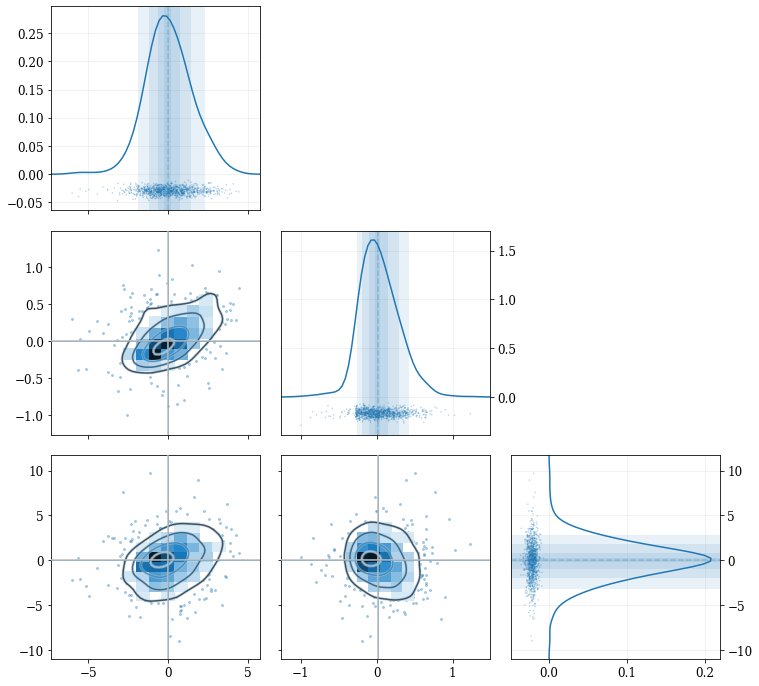
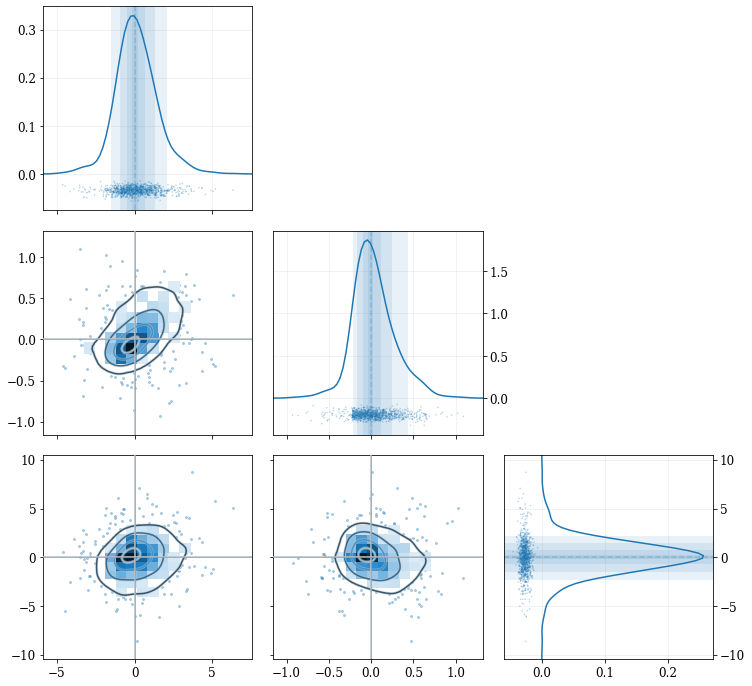
BUG: need to execute notebooks before conversion

diff --git a/gen_plot_api.py b/gen_plot_api.py
@@ -26,7 +26,7 @@ GITHUB_RAW_ADDR = "https://raw.githubusercontent.com/lzkelley/kalepy/{branch:}/d
 
 ALLOWED_BRANCHES = ['dev', 'master', 'test']
 
-EXECUTE = False
+EXECUTE = True
 
 # repo.git.describe
 

diff --git a/gen_readme.py b/gen_readme.py
@@ -27,7 +27,7 @@ GITHUB_RAW_ADDR = "https://raw.githubusercontent.com/lzkelley/kalepy/{branch:}/d
 
 ALLOWED_BRANCHES = ['dev', 'master', 'test']
 
-EXECUTE = False
+EXECUTE = True
 
 # repo.git.describe
 

diff --git a/docs/source/kde_api.rst b/docs/source/kde_api.rst
@@ -50,7 +50,7 @@ Plotting Smooth Distributions
 
 
 
-.. image:: https://raw.githubusercontent.com/lzkelley/kalepy/test/docs/media/demo_kde_files/demo_kde_8_0.png
+.. image:: https://raw.githubusercontent.com/lzkelley/kalepy/dev/docs/media/demo_kde_files/demo_kde_8_0.png
 
 
 resampling: constructing statistically similar values
@@ -76,7 +76,7 @@ Draw a new sample of data-points from the KDE PDF
 
 
 
-.. image:: https://raw.githubusercontent.com/lzkelley/kalepy/test/docs/media/demo_kde_files/demo_kde_11_0.png
+.. image:: https://raw.githubusercontent.com/lzkelley/kalepy/dev/docs/media/demo_kde_files/demo_kde_11_0.png
 
 
 Multivariate Distributions
@@ -97,7 +97,7 @@ Multivariate Distributions
 
 
 
-.. image:: https://raw.githubusercontent.com/lzkelley/kalepy/test/docs/media/demo_kde_files/demo_kde_13_0.png
+.. image:: https://raw.githubusercontent.com/lzkelley/kalepy/dev/docs/media/demo_kde_files/demo_kde_13_0.png
 
 
 .. code:: ipython3
@@ -126,7 +126,7 @@ Multivariate Distributions
 
 
 
-.. image:: https://raw.githubusercontent.com/lzkelley/kalepy/test/docs/media/demo_kde_files/demo_kde_14_0.png
+.. image:: https://raw.githubusercontent.com/lzkelley/kalepy/dev/docs/media/demo_kde_files/demo_kde_14_0.png
 
 
 Fancy Usage
@@ -165,7 +165,7 @@ like in a uniform distribution between two bounds? Here, the KDE chooses
 
 
 
-.. image:: https://raw.githubusercontent.com/lzkelley/kalepy/test/docs/media/demo_kde_files/demo_kde_18_0.png
+.. image:: https://raw.githubusercontent.com/lzkelley/kalepy/dev/docs/media/demo_kde_files/demo_kde_18_0.png
 
 
 Explicit reflection locations can also be provided (in any number of
@@ -198,7 +198,7 @@ dimensions).
 
 
 
-.. image:: https://raw.githubusercontent.com/lzkelley/kalepy/test/docs/media/demo_kde_files/demo_kde_20_0.png
+.. image:: https://raw.githubusercontent.com/lzkelley/kalepy/dev/docs/media/demo_kde_files/demo_kde_20_0.png
 
 
 Multivariate Reflection
@@ -221,7 +221,7 @@ Multivariate Reflection
 
 
 
-.. image:: https://raw.githubusercontent.com/lzkelley/kalepy/test/docs/media/demo_kde_files/demo_kde_22_0.png
+.. image:: https://raw.githubusercontent.com/lzkelley/kalepy/dev/docs/media/demo_kde_files/demo_kde_22_0.png
 
 
 Specifying Bandwidths and Kernel Functions
@@ -270,7 +270,7 @@ Specifying Bandwidths and Kernel Functions
 
 
 
-.. image:: https://raw.githubusercontent.com/lzkelley/kalepy/test/docs/media/demo_kde_files/demo_kde_24_0.png
+.. image:: https://raw.githubusercontent.com/lzkelley/kalepy/dev/docs/media/demo_kde_files/demo_kde_24_0.png
 
 
 Resampling
@@ -317,7 +317,7 @@ Using different data ``weights``
 
 
 
-.. image:: https://raw.githubusercontent.com/lzkelley/kalepy/test/docs/media/demo_kde_files/demo_kde_27_0.png
+.. image:: https://raw.githubusercontent.com/lzkelley/kalepy/dev/docs/media/demo_kde_files/demo_kde_27_0.png
 
 
 Resampling while ‘keeping’ certain parameters/dimensions
@@ -340,7 +340,7 @@ Resampling while ‘keeping’ certain parameters/dimensions
 
 
 
-.. image:: https://raw.githubusercontent.com/lzkelley/kalepy/test/docs/media/demo_kde_files/demo_kde_29_0.png
+.. image:: https://raw.githubusercontent.com/lzkelley/kalepy/dev/docs/media/demo_kde_files/demo_kde_29_0.png
 
 
 A standard KDE resampling will smooth out the discrete variables,
@@ -367,5 +367,5 @@ of resampling with ‘smoothing’ based on the KDE.
 
 
 
-.. image:: https://raw.githubusercontent.com/lzkelley/kalepy/test/docs/media/demo_kde_files/demo_kde_31_0.png
+.. image:: https://raw.githubusercontent.com/lzkelley/kalepy/dev/docs/media/demo_kde_files/demo_kde_31_0.png
 

diff --git a/README.md b/README.md
@@ -101,7 +101,7 @@ nbshow()
 ```
 
 
-![png](https://raw.githubusercontent.com/lzkelley/kalepy/test/docs/media/demo_files/demo_8_0.png)
+![png](https://raw.githubusercontent.com/lzkelley/kalepy/dev/docs/media/demo_files/demo_8_0.png)
 
 
 ### resampling: constructing statistically similar values
@@ -126,7 +126,7 @@ nbshow()
 ```
 
 
-![png](https://raw.githubusercontent.com/lzkelley/kalepy/test/docs/media/demo_files/demo_11_0.png)
+![png](https://raw.githubusercontent.com/lzkelley/kalepy/dev/docs/media/demo_files/demo_11_0.png)
 
 
 ### Multivariate Distributions
@@ -146,7 +146,7 @@ nbshow()
 ```
 
 
-![png](https://raw.githubusercontent.com/lzkelley/kalepy/test/docs/media/demo_files/demo_13_0.png)
+![png](https://raw.githubusercontent.com/lzkelley/kalepy/dev/docs/media/demo_files/demo_13_0.png)
 
 
 
@@ -175,7 +175,7 @@ nbshow()
 ```
 
 
-![png](https://raw.githubusercontent.com/lzkelley/kalepy/test/docs/media/demo_files/demo_14_0.png)
+![png](https://raw.githubusercontent.com/lzkelley/kalepy/dev/docs/media/demo_files/demo_14_0.png)
 
 
 # Fancy Usage
@@ -210,7 +210,7 @@ nbshow()
 ```
 
 
-![png](https://raw.githubusercontent.com/lzkelley/kalepy/test/docs/media/demo_files/demo_18_0.png)
+![png](https://raw.githubusercontent.com/lzkelley/kalepy/dev/docs/media/demo_files/demo_18_0.png)
 
 
 Explicit reflection locations can also be provided (in any number of dimensions).
@@ -242,7 +242,7 @@ nbshow()
 ```
 
 
-![png](https://raw.githubusercontent.com/lzkelley/kalepy/test/docs/media/demo_files/demo_20_0.png)
+![png](https://raw.githubusercontent.com/lzkelley/kalepy/dev/docs/media/demo_files/demo_20_0.png)
 
 
 ### Multivariate Reflection
@@ -264,7 +264,7 @@ nbshow()
 ```
 
 
-![png](https://raw.githubusercontent.com/lzkelley/kalepy/test/docs/media/demo_files/demo_22_0.png)
+![png](https://raw.githubusercontent.com/lzkelley/kalepy/dev/docs/media/demo_files/demo_22_0.png)
 
 
 ### Specifying Bandwidths and Kernel Functions
@@ -312,7 +312,7 @@ nbshow()
 ```
 
 
-![png](https://raw.githubusercontent.com/lzkelley/kalepy/test/docs/media/demo_files/demo_24_0.png)
+![png](https://raw.githubusercontent.com/lzkelley/kalepy/dev/docs/media/demo_files/demo_24_0.png)
 
 
 ## Resampling
@@ -357,7 +357,7 @@ nbshow()
 ```
 
 
-![png](https://raw.githubusercontent.com/lzkelley/kalepy/test/docs/media/demo_files/demo_27_0.png)
+![png](https://raw.githubusercontent.com/lzkelley/kalepy/dev/docs/media/demo_files/demo_27_0.png)
 
 
 ### Resampling while 'keeping' certain parameters/dimensions
@@ -379,7 +379,7 @@ nbshow()
 ```
 
 
-![png](https://raw.githubusercontent.com/lzkelley/kalepy/test/docs/media/demo_files/demo_29_0.png)
+![png](https://raw.githubusercontent.com/lzkelley/kalepy/dev/docs/media/demo_files/demo_29_0.png)
 
 
 A standard KDE resampling will smooth out the discrete variables, creating a smooth(er) distribution.  Using the `keep` parameter, we can choose to resample from the actual data values of that parameter instead of resampling with 'smoothing' based on the KDE.
@@ -403,7 +403,7 @@ nbshow()
 ```
 
 
-![png](https://raw.githubusercontent.com/lzkelley/kalepy/test/docs/media/demo_files/demo_31_0.png)
+![png](https://raw.githubusercontent.com/lzkelley/kalepy/dev/docs/media/demo_files/demo_31_0.png)
 
 
 ## Development & Contributions

diff --git a/docs/source/plot_api.rst b/docs/source/plot_api.rst
@@ -26,7 +26,7 @@ Plot some three-dimensional data called ``data3`` with shape (3, N) with
 
 
 
-.. image:: https://raw.githubusercontent.com/lzkelley/kalepy/test/docs/media/demo_plot_files/demo_plot_9_0.png
+.. image:: https://raw.githubusercontent.com/lzkelley/kalepy/dev/docs/media/demo_plot_files/demo_plot_9_0.png
 
 
 Extensive modifications are possible with passed arguments, for example:
@@ -43,7 +43,7 @@ Extensive modifications are possible with passed arguments, for example:
 
 
 
-.. image:: https://raw.githubusercontent.com/lzkelley/kalepy/test/docs/media/demo_plot_files/demo_plot_11_0.png
+.. image:: https://raw.githubusercontent.com/lzkelley/kalepy/dev/docs/media/demo_plot_files/demo_plot_11_0.png
 
 
 The ``kalepy.corner`` method is a wrapper that builds a
@@ -63,7 +63,7 @@ distributions, or using preconfigured plotting styles.
 
 
 
-.. image:: https://raw.githubusercontent.com/lzkelley/kalepy/test/docs/media/demo_plot_files/demo_plot_13_0.png
+.. image:: https://raw.githubusercontent.com/lzkelley/kalepy/dev/docs/media/demo_plot_files/demo_plot_13_0.png
 
 
 kalepy.dist1d and kalepy.dist2d
@@ -86,7 +86,7 @@ For the full documentation, see:
 
 
 
-.. image:: https://raw.githubusercontent.com/lzkelley/kalepy/test/docs/media/demo_plot_files/demo_plot_17_0.png
+.. image:: https://raw.githubusercontent.com/lzkelley/kalepy/dev/docs/media/demo_plot_files/demo_plot_17_0.png
 
 
 .. code:: ipython3
@@ -96,7 +96,7 @@ For the full documentation, see:
 
 
 
-.. image:: https://raw.githubusercontent.com/lzkelley/kalepy/test/docs/media/demo_plot_files/demo_plot_18_0.png
+.. image:: https://raw.githubusercontent.com/lzkelley/kalepy/dev/docs/media/demo_plot_files/demo_plot_18_0.png
 
 
 These functions can also be called on a ``kalepy.KDE`` instance, which
@@ -117,7 +117,7 @@ reflection.
 
 
 
-.. image:: https://raw.githubusercontent.com/lzkelley/kalepy/test/docs/media/demo_plot_files/demo_plot_20_0.png
+.. image:: https://raw.githubusercontent.com/lzkelley/kalepy/dev/docs/media/demo_plot_files/demo_plot_20_0.png
 
 
 .. code:: ipython3
@@ -142,5 +142,5 @@ reflection.
 
 
 
-.. image:: https://raw.githubusercontent.com/lzkelley/kalepy/test/docs/media/demo_plot_files/demo_plot_21_0.png
+.. image:: https://raw.githubusercontent.com/lzkelley/kalepy/dev/docs/media/demo_plot_files/demo_plot_21_0.png
 
